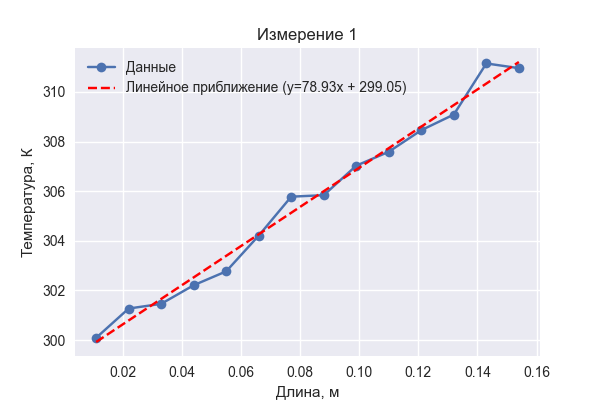
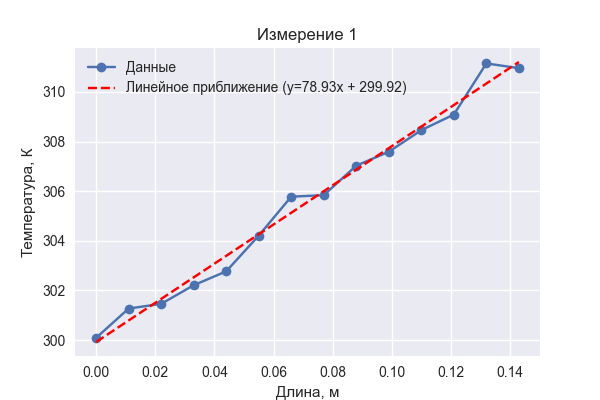
s

Changed region(s): [[0.12, 0.9, 0.93, 0.96], [0.63, 0.21, 0.69, 0.24]]

diff --git a/2/graph2.py b/2/graph2.py
@@ -3,30 +3,29 @@ import matplotlib.pyplot as plt
 import pandas as pd
 import numpy as np
 
-for file_number in range(1, 4):
+for file_number in range(1, 2):
     # Set up path
     csv_file_path = f"2/csv/{file_number}.csv"
     df = pd.read_csv(csv_file_path, sep="\t", header=None)
 
     # Get desired row
-    row_data = df.iloc[80, 1:] + 273.15  # Extract the 250th row excluding the first column and add 273
+    row_data = df.iloc[80, 1:] + 273.15  # Extract the 80th row excluding the first column and convert to K
 
 
     # Generate x and multiply by the mean distance between sensors (m)
-    x = np.array(range(0, len(row_data))) * 0.011
+    x = np.array(range(1, len(row_data) + 1)) * 0.011
 
     # Perform linear fit (degree=1)
     coefficients = np.polyfit(x, row_data, 1)
     slope, intercept = coefficients
+    print()
     print(f"Linear Fit for File {file_number}: Slope = {slope}, Intercept = {intercept}")
     ws = [1.407 , 3.751 , 5.684]
     # Generate y values for the linear fit
     y_fit = slope * x + intercept
-    print(ws[file_number - 1] / (2.4e-5 * slope))
-    print(ws[file_number - 1]/(slope*238))
+    print('Calculated kappa: ', ws[file_number - 1] / (2.4e-5 * 2000))
+    print('Assume kappa=238, calculate S: ', ws[file_number - 1]/(slope*238))
     # Plot
-    plt.style.use("seaborn-v0_8")
-    matplotlib.rcParams.update({'font.size': 30})
     plt.figure(figsize=(6, 4))
     plt.plot(x, row_data, label='Данные', marker='o')
     plt.plot(x, y_fit, label=f'Линейное приближение (y={slope:.2f}x + {intercept:.2f})', linestyle='--', color='red')

diff --git a/2/graph_all.py b/2/graph_all.py
@@ -1,0 +1,14 @@
+import matplotlib
+import matplotlib.pyplot as plt
+import pandas as pd
+import numpy as np
+
+for file_number in range(1, 4):
+    # Set up path
+    csv_file_path = f"2/csv/{file_number}.csv"
+    df = pd.read_csv(csv_file_path, sep="\t", header=None)
+    plt.figure(figsize=(6, 4)) 
+    for i in range (1, 15):
+        plt.plot(df[1: i], df[0])
+    plt.show()
+    plt.close()   
